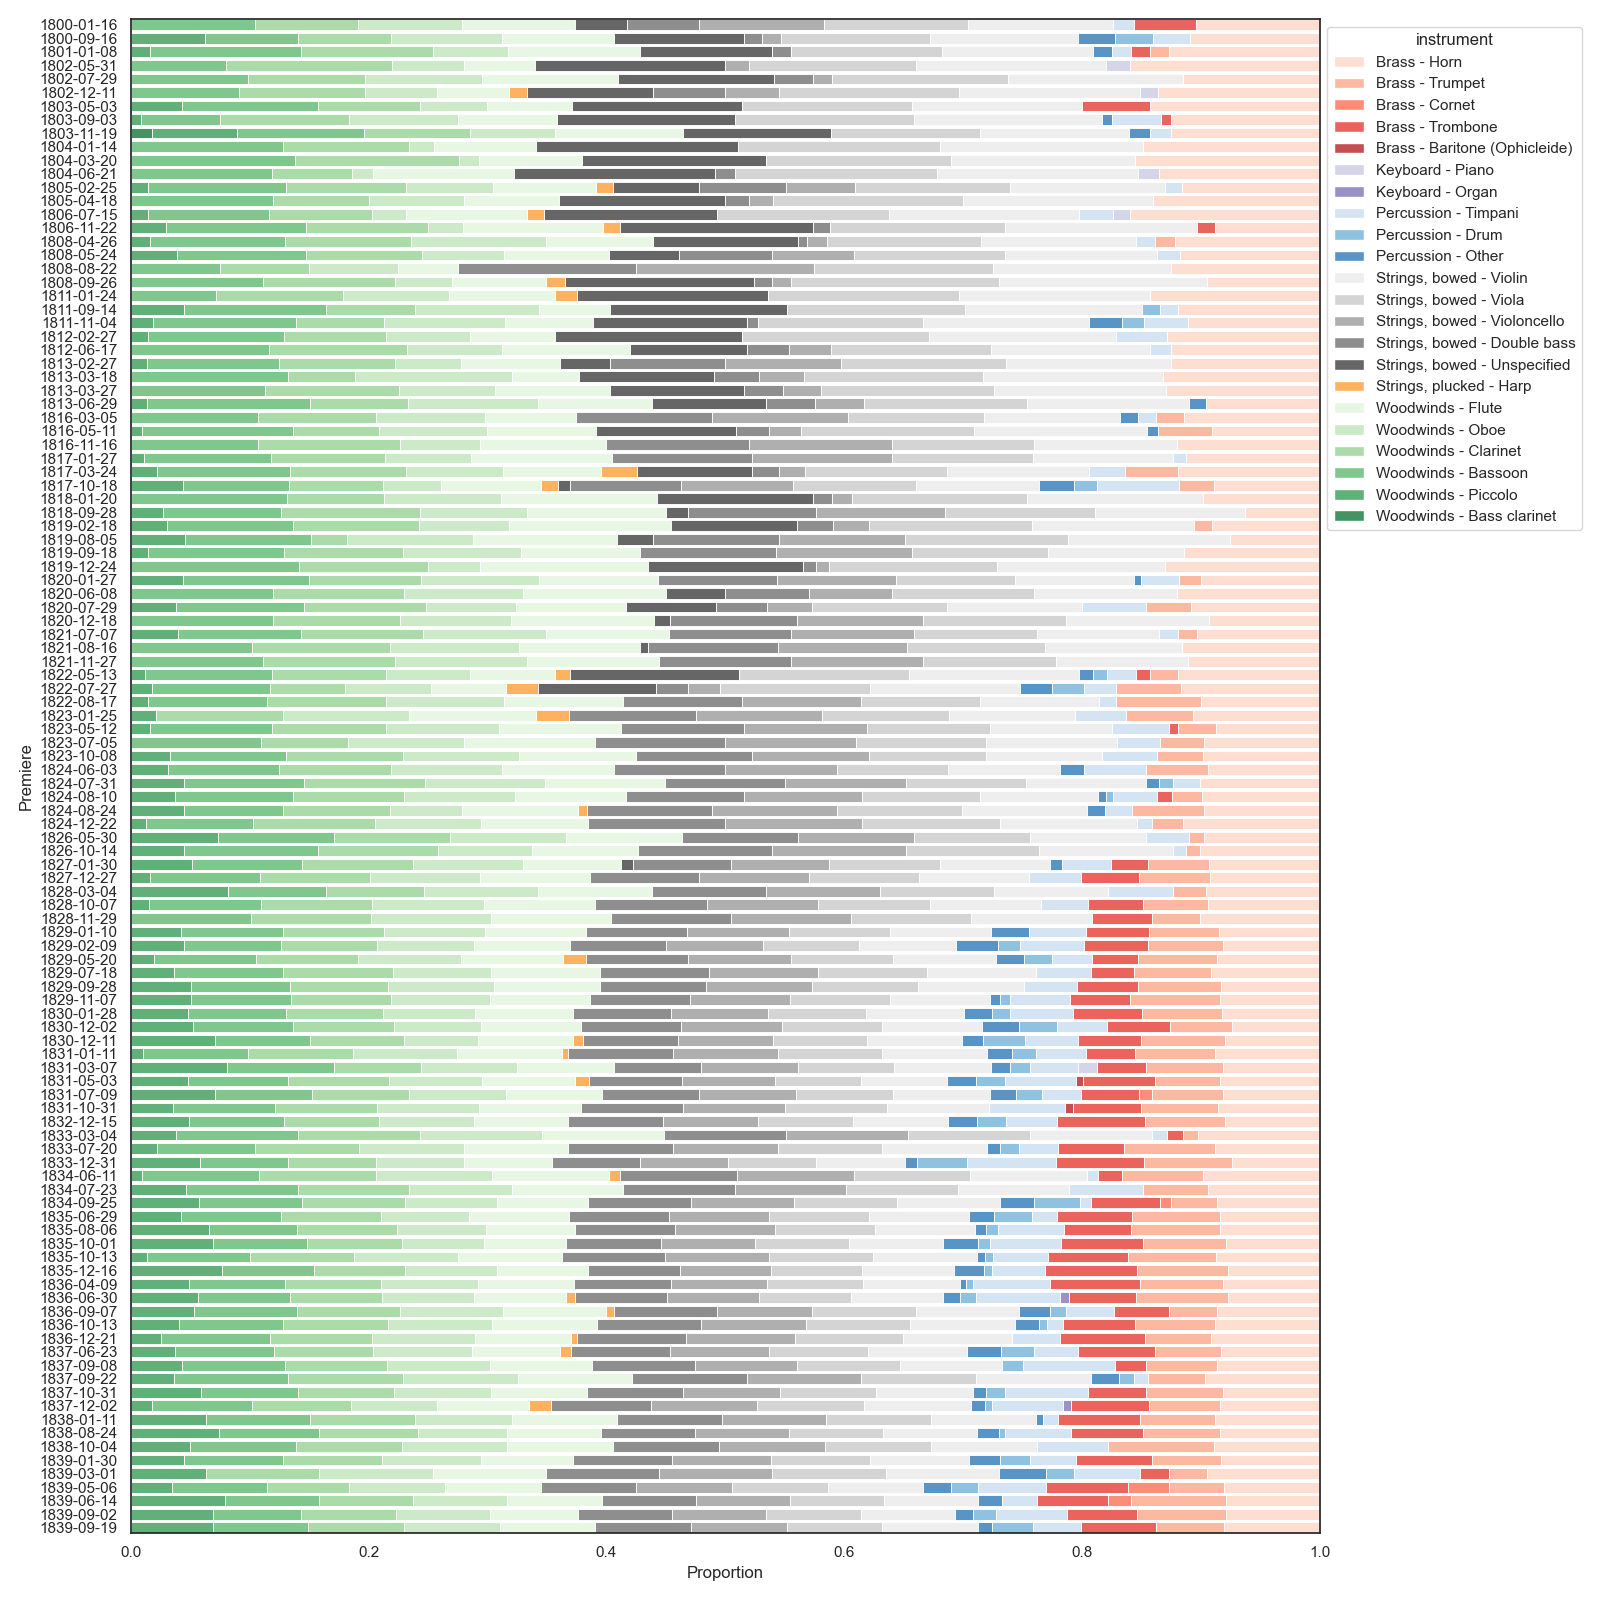
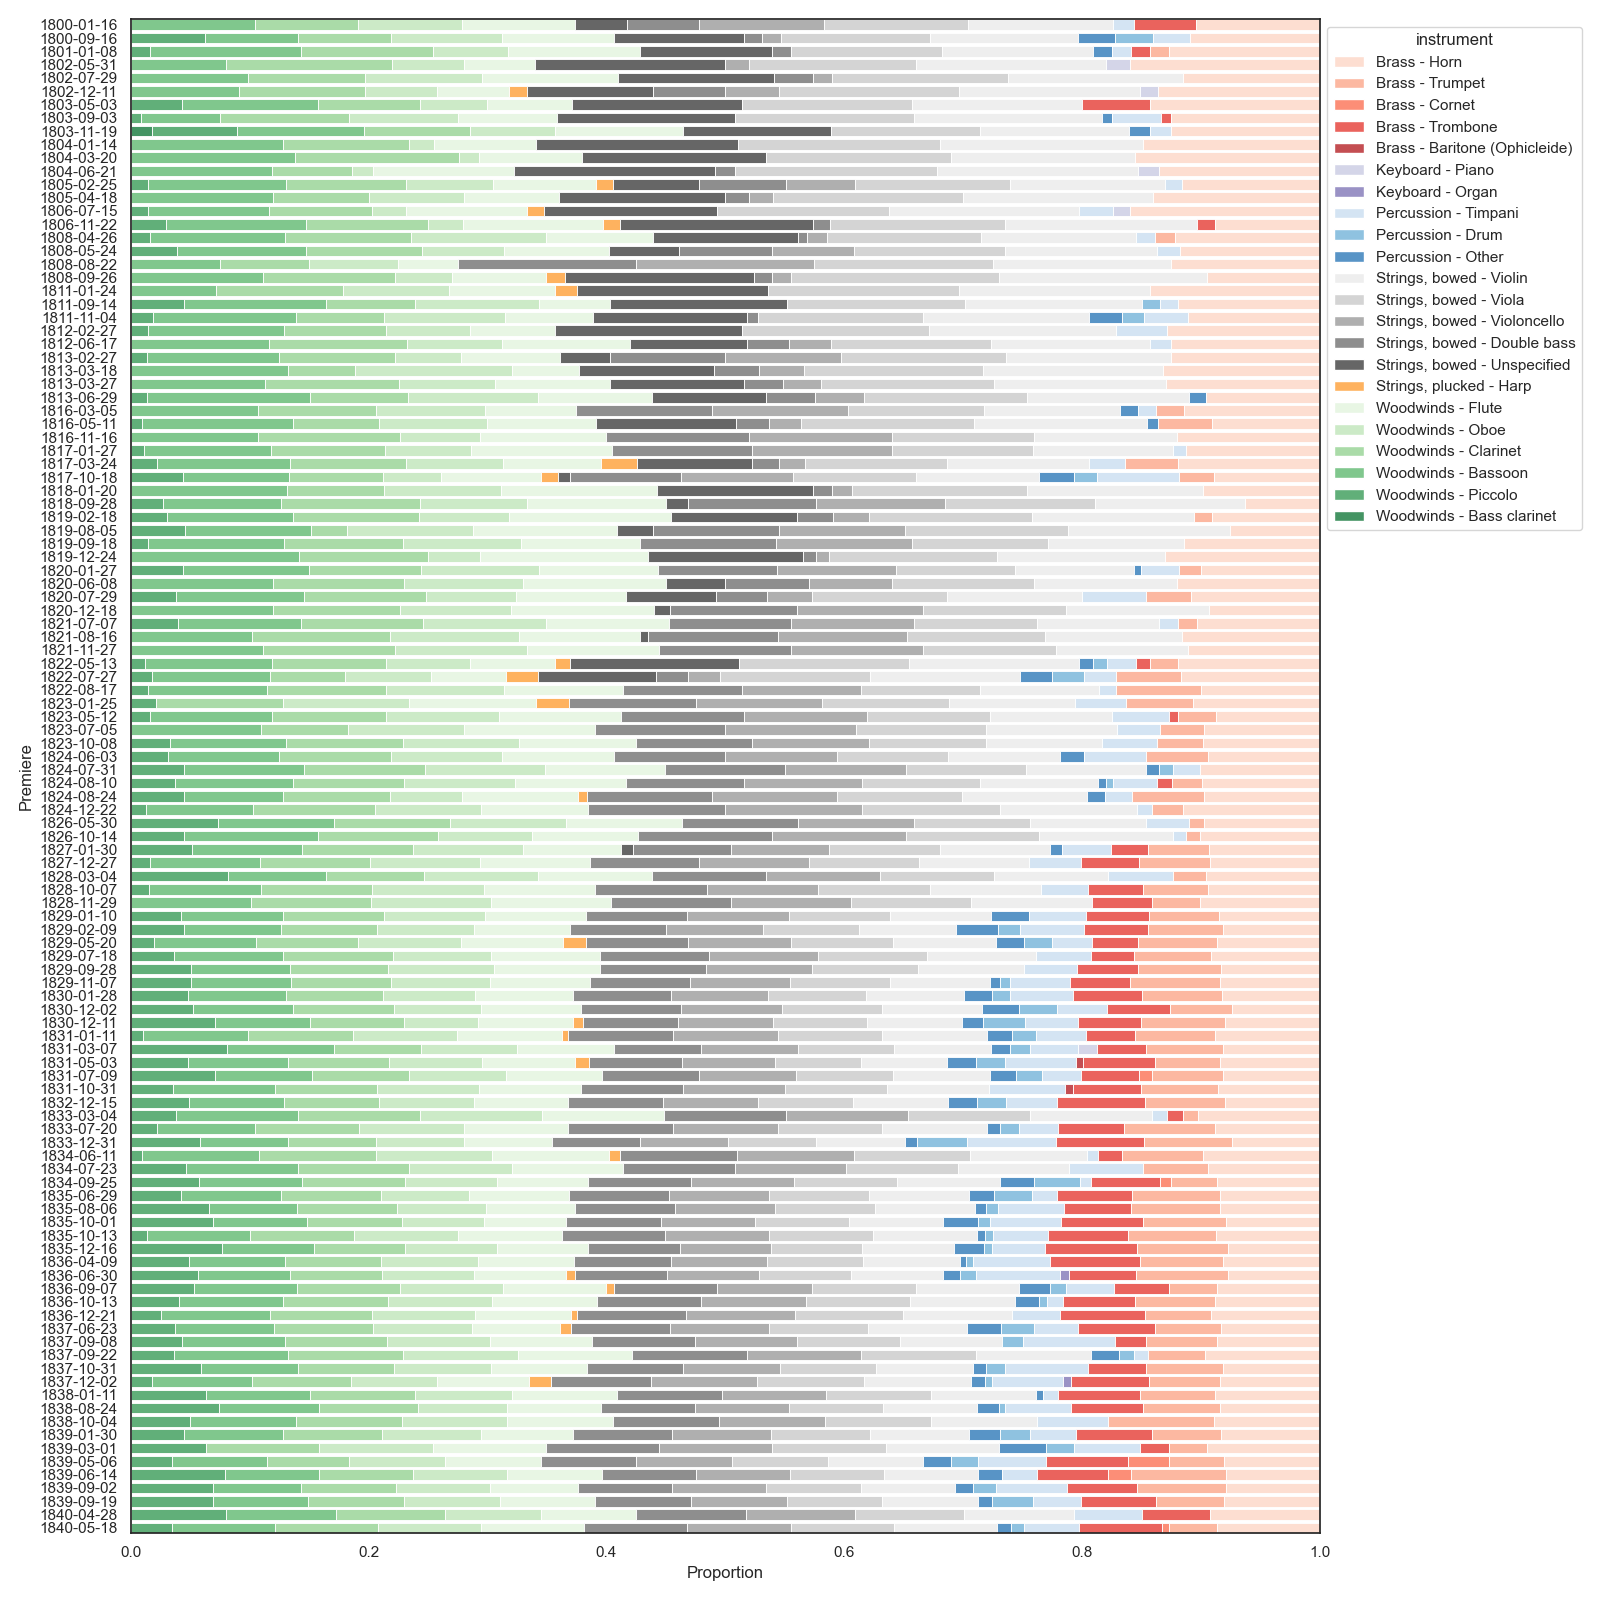
pca anlysis

diff --git a/doc-db/src/pca_analysis.py b/doc-db/src/pca_analysis.py
@@ -1,0 +1,102 @@
+from xml_parser import Datasets
+import seaborn as sns
+import pandas as pd
+from sklearn.decomposition import PCA
+from sklearn.preprocessing import StandardScaler
+import matplotlib.pyplot as plt
+
+
+# Get dataset of operas' instrument deployment / work averages
+dataset = Datasets().build_sparse_opera_averages_df()
+df = pd.DataFrame(dataset)
+features = df.drop(columns=["year", "date", "title", "charlton_id"])
+labels = pd.to_numeric(df["year"])
+ids = df["title"]
+
+# Fit and transform data using PCA
+standard_df = StandardScaler().fit_transform(features)
+pca = PCA(2)
+X_r = pca.fit_transform(standard_df)
+
+# Convert PCA transformation into data frame
+pca_df = pd.DataFrame(X_r, columns=["PCA1", "PCA2"], index=df.index)
+final_df = pd.concat([pca_df, labels, ids], axis=1)
+print("Final PCA data frame:")
+print(final_df)
+x, y, hue = final_df["PCA1"], final_df["PCA2"], final_df["year"]
+
+# Set up figure
+gridkw = dict(height_ratios=[6, 1])
+fig, (ax0, ax1) = plt.subplots(nrows=2, ncols=1, figsize=(16, 24), gridspec_kw=gridkw)
+
+# Make heatmap showing PCA analysis
+cmap = sns.diverging_palette(0, 300, s=60, sep=50, as_cmap=True)
+# cmap = "Accent"
+hmp = sns.heatmap(
+    pca.components_,
+    ax=ax1,
+    cmap=cmap,
+    yticklabels=[f"PCA{x}" for x in range(1, pca.n_components_ + 1)],
+    xticklabels=list(features.columns),
+    linewidths=1,
+    annot=True,
+    fmt=",.2f",
+    cbar_kws={
+        "shrink": 0.8,
+        "orientation": "vertical",
+    },
+)
+hmp.set_aspect("equal")
+hmp.set_title(
+    "Heatmap showing how much an instrument's deployment throughout the opera influences the principal components of the analysis (PCA)",
+    fontdict={"size": 12},
+)
+
+# Make scatter plot showing PCA results
+colormap = "Spectral"
+points = sns.scatterplot(
+    data=final_df,
+    x="PCA1",
+    y="PCA2",
+    ax=ax0,
+    hue="year",
+    s=100,
+    alpha=0.5,
+    palette=colormap,
+)
+ax0.collections[0].set_sizes([2_500])
+norm = plt.Normalize(hue.min(), hue.max())
+mappable = plt.cm.ScalarMappable(cmap=colormap, norm=norm)
+mappable.set_array([])
+ax0.get_legend().remove()
+cbar = plt.colorbar(mappable, ax=ax0, shrink=0.5)
+
+above_node, below_node = "bottom", "top"
+for line in range(0, final_df.shape[0]):
+    points.text(
+        x[line] + 0.01,
+        y[line],
+        ids[line],
+        horizontalalignment="center",
+        verticalalignment=below_node,
+        size="xx-small",
+        color="black",
+    )
+for line in range(0, final_df.shape[0]):
+    points.text(
+        x[line] + 0.01,
+        y[line],
+        hue[line],
+        horizontalalignment="center",
+        verticalalignment=above_node,
+        size="small",
+        color="black",
+    )
+points.set_title(
+    "PCA Analysis of opéra-comiques' instrumentation, 1800-1840", fontdict={"size": 18}
+)
+
+sns.despine()
+plt.tight_layout()
+
+fig.savefig("results/pca.png")

diff --git a/doc-db/src/xml_parser.py b/doc-db/src/xml_parser.py
@@ -180,7 +180,7 @@ class Datasets:
         work_list = sorted(work_list, key=lambda d: d["instrument_codedval"])
         return work_list
 
-    def build_opera_averages_df(self, ignore: list = []) -> list[dict]:
+    def build_dense_opera_averages_df(self, ignore: list = []) -> list[dict]:
         opera_list = []
         reverse_index = {v: k for k, v in MARCMUSPERF.items()}
         sections = {
@@ -216,4 +216,24 @@ class Datasets:
                     }
                 )
         opera_list = sorted(opera_list, key=lambda d: d["year"])
+        return opera_list
+
+    def build_sparse_opera_averages_df(self, ignore: list = []) -> list[dict]:
+        opera_list = []
+        instrumts_to_ignore = self._get_list_of_instruments_to_ignore(l=ignore)
+        for metadata in self.opera_dicts:
+            n_works = len(metadata["works"])
+            averages = {
+                k: (v / n_works)
+                for k, v in metadata["deployments"].items()
+                if k not in instrumts_to_ignore
+            }
+            opera = {
+                "date": metadata["year"],
+                "year": metadata["year"][:4],
+                "charlton_id": metadata["charlton_id"],
+                "title": metadata["title"],
+            } | averages
+            opera_list.append(opera)
+        opera_list = sorted(opera_list, key=lambda d: d["date"])
         return opera_list

diff --git a/doc-db/src/lineplots.py b/doc-db/src/lineplots.py
@@ -5,7 +5,6 @@ import pandas as pd
 import matplotlib.pyplot as plt
 from pathlib import Path
 from perfRes import MARCMUSPERF
-from matplotlib.ticker import PercentFormatter
 import matplotlib.ticker as mtick
 
 
@@ -46,7 +45,7 @@ def make_color_palette(color: str, dataframe: list[dict]) -> dict:
 
 
 def main():
-    dataset = Datasets().build_opera_averages_df(ignore=["Woodwinds - Bass"])
+    dataset = Datasets().build_dense_opera_averages_df(ignore=["Woodwinds - Bass"])
     [d.update({"proportion": d["proportion"] * 5}) for d in dataset]
 
     sns.set_theme(style="whitegrid")

diff --git a/doc-db/README.md b/doc-db/README.md
@@ -1,0 +1,13 @@
+# Analysis of opéra-comique corpus, 1800-1840
+
+A Principal Component Analysis (PCA) on the deployment of different instruments throughout an opera shows a gradual shift in required performing forces between 1800 and 1840.
+
+Using PCA, we observe each opera in the corpus and assess the proportion of numbers (arias, overtures, interludes, etc.) in which each instrument was deployed. Violons and violas, for example, were used in every number of every opera in the corpus. Therefore, as seen in the heatmap at the bottom of the figure below, they are both highly correlated with one of the principal components and hardly correlated at all (0.02 and 0.07) with the other, meaning the presence of violons and violas is not a significant factor in the analysis. Trombones, trumpets, and timpani, on the other hand, are significant in both principal components of the analysis, both negatively (magenta) and positively (purple) influencing the PCA. Therefore, we can conclude that these dimensions, low brass and percussion, have significant deviations in the corpus.
+
+![PCA analysis](results/pca.png)
+
+When we plot the operas according to their PCA values (PCA1, PCA2), we see clusters form according to the opera's year of composition, which is indicated by color. This is interesting because the year of composition is not part of the PCA; it is a completely independent variable. As such, we can conclude that patterns in opera orchestration, which the PCA explores, are correlated with time. In other words, orchestration changes over time. (This is what we predicted in our hypothesis and, in on its own, isn't surprising at all.)
+
+Operas composed between 1815 and 1825, shown in yellow, are less predicatbly positioned in the PCA visualization. Sometimes works composed during this transition period cluster with those of the previous decade. Such is the case of _Le Pavillon de fleurs_ (1822), _Les Rivaux de village_ (1819), and _Corisandre ou la Rose magique_ (1820). Sometimes they do not share many traits with operas on either end of the temporal spectrum, as seen with the yellow cluster at the center of the graph. Further inspection of these works, largely from 1817 to 1823, shows that the reason they differ is because they tended to deploy trumpets, which is different than older operas, but not trombones, which is different than later operas.
+
+While most of the operas composed after 1830 are tightly grouped together in a shared, almost standardized instrumentation (blue-green cluster), there are several notable outliers that differ both from previous models and contemporary works: _Le Domino Noir_ (1837), _Zampa_ (1831), and _Le morceau d'ensemble_ (1831). These outliers suggest that the 1830s presented significantly innovative experimentations in orchestration not tested earlier in the century.
